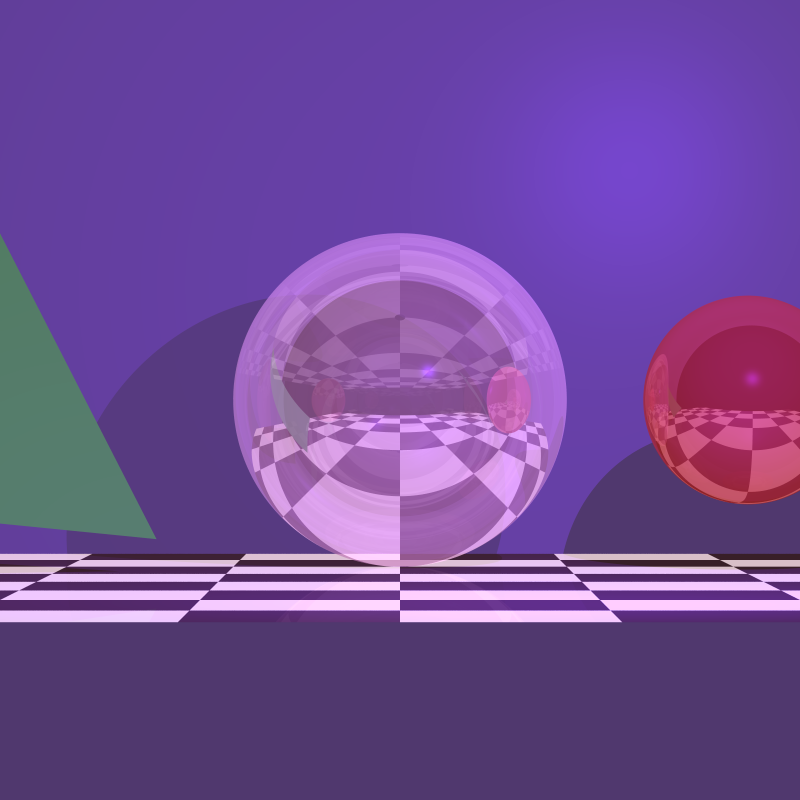
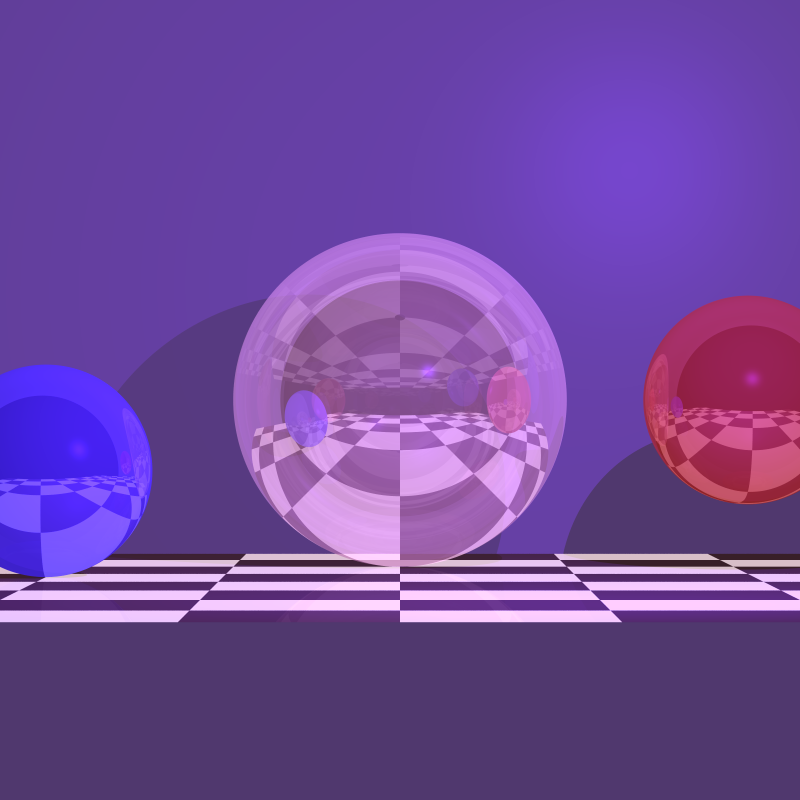
Advancing image

diff --git a/unittests/renderer/ProjectImage.java b/unittests/renderer/ProjectImage.java
@@ -19,18 +19,18 @@ public class ProjectImage {
     public void finalImage() {
 
         Scene scene = new Scene("Test final image");
-         final Camera.Builder camera2 = Camera.getBuilder()
+        final Camera.Builder camera2 = Camera.getBuilder()
                 .setRayTracer(new SimpleRayTracer(scene))
                 .setLocation(new Point(0, 0, 1000))
                 .setDirection(new Vector(0, 0, -1), new Vector(0, 1, 0))
-                 .setMultithreading(9)
-                 .setSamplesPerPixel(9)
-                 .setVUpSize(200, 200).setVpDistance(1000);
+                .setMultithreading(9)
+                .setSamplesPerPixel(9)
+                .setVUpSize(200, 200).setVpDistance(1000);
 
         // Replace with your OBJ file path
         List<Triangle> triangles = Generated3DCode.Triangles();
         for (Triangle triangle : triangles) {
-            scene.geometries.add(triangle.setEmission(  new Color(255, 0, 255))
+            scene.geometries.add(triangle.setEmission(new Color(255, 0, 255))
                     .setMaterial(new Material()
                             .setkD(new Double3(0.2, 0.6, 0.4))
                             .setkS(new Double3(0.2, 0.4, 0.3))
@@ -40,7 +40,7 @@ public class ProjectImage {
         }
         triangles = Generated3DCode1.Triangles();
         for (Triangle triangle : triangles) {
-            scene.geometries.add(triangle.setEmission(  new Color(0, 0, 255))
+            scene.geometries.add(triangle.setEmission(new Color(0, 0, 255))
                     .setMaterial(new Material()
                             .setkD(new Double3(0.2, 0.6, 0.4))
                             .setkS(new Double3(0.2, 0.4, 0.3))
@@ -50,7 +50,7 @@ public class ProjectImage {
         }
         triangles = Generated3DCode2.Triangles();
         for (Triangle triangle : triangles) {
-            scene.geometries.add(triangle.setEmission(  new Color(0, 255, 0))
+            scene.geometries.add(triangle.setEmission(new Color(0, 255, 0))
                     .setMaterial(new Material()
                             .setkD(new Double3(0.2, 0.6, 0.4))
                             .setkS(new Double3(0.2, 0.4, 0.3))
@@ -60,7 +60,7 @@ public class ProjectImage {
         }
         triangles = Generated3DCode3.Triangles();
         for (Triangle triangle : triangles) {
-            scene.geometries.add(triangle.setEmission(  new Color(255, 0, 0))
+            scene.geometries.add(triangle.setEmission(new Color(255, 0, 0))
                     .setMaterial(new Material()
                             .setkD(new Double3(0.2, 0.6, 0.4))
                             .setkS(new Double3(0.2, 0.4, 0.3))
@@ -72,23 +72,23 @@ public class ProjectImage {
         scene.geometries.add(new Sphere(5, new Point(15, -400, 5)).setEmission(new Color(0, 255, 255)).setMaterial(new Material().setkD(new Double3(0.2, 0.6, 0.4)).setKR(0.97).setkS(new Double3(0.2, 0.4, 0.3)).setShininess(10000)));
         scene.geometries.add(new Sphere(4, new Point(-10, -400, 4)).setEmission(new Color(255, 0, 0)).setMaterial(new Material().setkD(new Double3(0.2, 0.6, 0.4)).setKR(0.97).setkS(new Double3(0.2, 0.4, 0.3)).setShininess(10000)));
         scene.geometries.add(new Sphere(3, new Point(0, -400, 3)).setEmission(new Color(0, 0, 255)).setMaterial(new Material().setkD(new Double3(0.2, 0.6, 0.4)).setKR(0.97).setkS(new Double3(0.2, 0.4, 0.3)).setShininess(10000)));
-        scene.lights. add(new SpotLight(new Color(300,100,150), new Point(0,-420,0),new Vector(0,1,0)));
-        scene.geometries.add(new Plane(new Point(0,0,0),new Point(0,1,0),new Point(1,0,0)).setEmission(new Color(WHITE).reduce(5)).setMaterial(new Material().setkD(new Double3(0.2, 0.6, 0.4)).setkS(new Double3(0.2, 0.4, 0.3)).setShininess(301)));
-        scene.geometries.add(new Plane(new Point(0,350,0),new Point(0,350,1),new Point(1,350,0)).setEmission(new Color(0,0,0)).setMaterial(new Material().setkD(new Double3(0.2, 0.6, 0.4)).setkS(new Double3(0.2, 0.4, 0.3)).setShininess(100000)));
+        scene.lights.add(new SpotLight(new Color(300, 100, 150), new Point(0, -420, 0), new Vector(0, 1, 0)));
+        scene.geometries.add(new Plane(new Point(0, 0, 0), new Point(0, 1, 0), new Point(1, 0, 0)).setEmission(new Color(WHITE).reduce(5)).setMaterial(new Material().setkD(new Double3(0.2, 0.6, 0.4)).setkS(new Double3(0.2, 0.4, 0.3)).setShininess(301)));
+        scene.geometries.add(new Plane(new Point(0, 350, 0), new Point(0, 350, 1), new Point(1, 350, 0)).setEmission(new Color(0, 0, 0)).setMaterial(new Material().setkD(new Double3(0.2, 0.6, 0.4)).setkS(new Double3(0.2, 0.4, 0.3)).setShininess(100000)));
         scene.geometries.makeBVH();
 
-        scene.lights. add(new SpotLight( new Color(300, 200, 10000),new Point(-200,200,150), new Vector   (382,-353,-150))
+        scene.lights.add(new SpotLight(new Color(300, 200, 10000), new Point(-200, 200, 150), new Vector(382, -353, -150))
                 .setKl(0.001).setKq(0.00004).setNarrowBeam(10));
-        scene.lights. add(new SpotLight(new Color(10000, 200, 100),new Point(200,200,150), new Vector  (-382,-353,-150))
+        scene.lights.add(new SpotLight(new Color(10000, 200, 100), new Point(200, 200, 150), new Vector(-382, -353, -150))
                 .setKl(0.001).setKq(0.00004).setNarrowBeam(10));
 
 
-       camera2.setImageWriter(new ImageWriter("light83", 500, 500))
-               .setLocation(new Point(10,-780,30))
-               .setDirection(new Vector(0,1,0),new Vector(0,0,1))
-               .build()
-               .renderImage()
-               .writeToImage();
+        camera2.setImageWriter(new ImageWriter("light83", 500, 500))
+                .setLocation(new Point(10, -780, 30))
+                .setDirection(new Vector(0, 1, 0), new Vector(0, 0, 1))
+                .build()
+                .renderImage()
+                .writeToImage();
     }
 
     @Test
@@ -104,7 +104,7 @@ public class ProjectImage {
                 .setVUpSize(200, 200).setVpDistance(1000);
 
 
-        Geometry crystalSphere =  new Sphere(50, new Point(0, 0, -200))
+        Geometry crystalSphere = new Sphere(50, new Point(0, 0, -200))
                 .setEmission(new Color(20, 20, 20))
                 .setMaterial(new Material()
                         .setKd(0.2).setKs(0.9).setShininess(300)
@@ -136,15 +136,12 @@ public class ProjectImage {
                 .setEmission(new Color(100, 20, 20))
                 .setMaterial(new Material().setKd(0.4).setKs(0.6).setShininess(100).setKR(0.3));
 
-        Geometry reflectiveTriangle = new Triangle(
-                new Point(-120, 50, -200),
-                new Point(-70, -40, -150),
-                new Point(-150, -30, -100))
-                .setEmission(new Color(20, 100, 20))
-                .setMaterial(new Material().setKd(0.5).setKs(0.5).setShininess(80).setKR(0.2));
+        Geometry reflectiveSphere2 = new Sphere(30, new Point(-100, -20, -130))
+                .setEmission(new Color(20, 20, 180))
+                .setMaterial(new Material().setKd(0.4).setKs(0.6).setShininess(100).setKR(0.3));
 
         // Add all geometries to the scene
-        scene.geometries.add(crystalSphere, floor, backdrop, reflectiveSphere, reflectiveTriangle);
+        scene.geometries.add(crystalSphere, floor, backdrop, reflectiveSphere, reflectiveSphere2);
 
         // Set up lighting
         scene.setAmbientLight(new AmbientLight(new Color(150, 30, 50), 0.1));
@@ -167,4 +164,67 @@ public class ProjectImage {
                 .renderImage()
                 .writeToImage();
     }
+
+
+    @Test
+    public void testVerticalCheckerboardScene() {
+        Scene scene = new Scene("Vertical Checkerboard Crystal Scene");
+
+        // Crystal sphere at the origin
+        Geometry crystalSphere = new Sphere(50, new Point(0, 0, 50))
+                .setEmission(new Color(20, 20, 20))
+                .setMaterial(new Material()
+                        .setKd(0.2).setKs(0.9).setShininess(300)
+                        .setKR(0.4).setKT(0.6));
+
+        // Create a checkered floor on YX plane (vertical)
+        int squareSize = 50;
+        Geometries checkerboard = new Geometries();
+        for (int i = -5; i <= 5; i++) {
+            for (int j = -5; j <= 5; j++) {
+                Color color = (i + j) % 2 == 0 ? new Color(20, 20, 20) : new Color(180, 180, 180);
+                checkerboard.add(new Polygon(
+                        new Point(i * squareSize, j * squareSize, 0),
+                        new Point((i + 1) * squareSize, j * squareSize, 0),
+                        new Point((i + 1) * squareSize, (j + 1) * squareSize, 0),
+                        new Point(i * squareSize, (j + 1) * squareSize, 0))
+                        .setEmission(color)
+                        .setMaterial(new Material().setKd(0.8).setKs(0.2).setShininess(30).setKR(0.1)));
+            }
+        }
+
+        // Add some additional objects for interesting reflections
+        Geometry reflectiveSphere = new Sphere(30, new Point(0, 100, 30))
+                .setEmission(new Color(100, 20, 20))
+                .setMaterial(new Material().setKd(0.4).setKs(0.6).setShininess(100).setKR(0.3));
+
+
+
+        scene.geometries.add(crystalSphere, checkerboard, reflectiveSphere);
+
+        scene.setAmbientLight(new AmbientLight(new Color(150, 30, 50), 0.1));
+
+        scene.lights.add(new SpotLight(
+                new Color(80, 30, 200),
+                new Point(100, 100, 500),
+                new Vector(-1, -1, -4))
+                .setKl(0.00001).setKq(0.000005));
+
+
+        Camera.Builder camera = Camera.getBuilder()
+                .setRayTracer(new SimpleRayTracer(scene))
+                .setLocation(new Point(10, -1200, 30))
+                .setDirection(new Vector(0, 1, 0), new Vector(0, 0, 1))
+                .setMultithreading(9)
+                .setSamplesPerPixel(9)
+                .setVUpSize(200, 200).setVpDistance(1500);
+        camera.setImageWriter(new ImageWriter("NaturalAxisCrystalScene", 800, 800))
+                .build()
+                .renderImage()
+                .writeToImage();
+
+
+    }
+
+
 }
